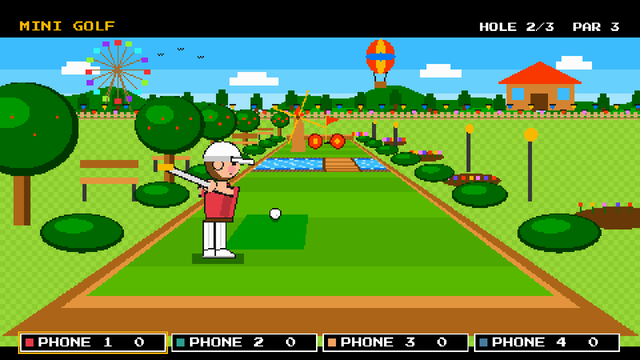
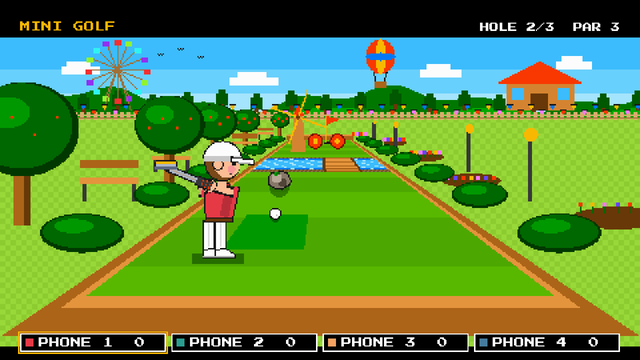
Mini Golf: a better putter and more obstacles (rocks, sliding barriers)
Claude-Session: https://claude.ai/code/session_01ESdJXy1GyvRtzxqDz7HJmE

Changed region(s): [[0.2188, 0.4278, 0.3438, 0.55], [0.4062, 0.4583, 0.4688, 0.55]]

diff --git a/docs/games/mini_golf.md b/docs/games/mini_golf.md
@@ -39,7 +39,7 @@ Rules and turns
 | REQ-MG-7 | **The winner** has the fewest strokes over all holes of the match. A tie is shown as a tie. The end is `open_results()` (REQ-GM-72) with the strokes as the score (fewer is better), the medal (REQ-MG-14) and Try again, New game, Back to menu. | Done | smoke_golf |
 | REQ-MG-8 | **Pick up after 6 strokes.** When a player has played 6 strokes on a hole and the ball is not in, the ball is picked up with a soft message and the hole counts as 6 for that player. The player waits for the others. | Done | run_tests |
 | REQ-MG-9 | **Water.** A hole can have a lake that goes from one wall to the other, with a bridge over it. A ball that touches the water (not the bridge) makes a small splash, stops, and goes back to the place of the last putt (the putt counts as a stroke). Nothing more is taken away. | Done | run_tests |
-| REQ-MG-10 | **Edges.** A strong putt with a bad direction can leave the green. The wall brings the ball back (a bounce); the ball never leaves the course. The windmill block and the bumpers are obstacles that bounce the ball. Nothing is taken away for a bounce. | Done | run_tests |
+| REQ-MG-10 | **Edges.** A strong putt with a bad direction can leave the green. The wall brings the ball back (a bounce); the ball never leaves the course. The windmill block, the bumpers, the rocks (a boulder takes more speed than a bumper) and the sliding barriers (red and gold boxes that slide across the course, always leaving a gap) are obstacles that bounce the ball. A barrier that slides into the ball pushes it aside. Nothing is taken away for a bounce. | Done | run_tests |
 | REQ-MG-11 | A player who leaves: the golfer and the ball go away, the turn goes to the next player, and the strokes stay in the result. When nobody is left the "No players connected" menu opens (REQ-GM-22). A lost phone pauses the game (REQ-GM-30). A phone that comes back keeps its slot (REQ-GM-30a). | Done | smoke_golf |
 
 Holes and settings
@@ -50,7 +50,7 @@ Holes and settings
 | REQ-MG-13 | **Difficulty changes the help for aim and power only** (REQ-GM-96; all players have the same difficulty). Easy: a long aim line, a power hint at the swing, and a weak swing still reaches a nearby hole. Medium: a short aim line, no power hint. Hard: no aim line, only a small marker on the ground. The courses are the same on every difficulty. | Device | run_tests, Device |
 | REQ-MG-14 | **Medals** (REQ-GM-73), for 1 player: by the total strokes against the par of the played holes. First guess: gold at par or better, silver at most 1 over par per hole, bronze at most 2 over par per hole (the exact tiers are in Parameters). For 2 to 4 players the medal is for the winner. | Done | run_tests |
 | REQ-MG-15 | **No personal best in this version.** The key table of the profile (`profile_keys.gd`) has a limited size, and the saved number would be strokes (fewer is better). `best_key()` returns "". A key `mini_golf|<difficulty>|<holes>` can be added later. | Done | smoke_golf (`best_key()`) |
-| REQ-MG-16 | The golfer is a friendly kid with a white cap, white trousers and shoes and a shirt in the slot color, seen from behind and a little from the side. A full swing is animated: address, backswing (when the direction locks), downswing, hit, follow-through and finish, mixed smoothly (`golf_look.gd` `aim_pose()` and `swing_pose()`). The animation is played by the TV when the swing is found; it is not a live copy of the arm (the detector reports a swing a few samples after the hit). The ball starts at once, and the phone buzzes (30 ms, a strong putt 60 ms). | Device | smoke_golf, Device |
+| REQ-MG-16 | The golfer is a friendly kid with a white cap, white trousers and shoes and a shirt in the slot color, seen from behind and a little from the side. A full swing is animated: address, backswing (when the direction locks), downswing, hit, follow-through and finish, mixed smoothly (`golf_look.gd` `aim_pose()` and `swing_pose()`). The putter has a dark grip, a steel shaft and a steel head with a gold top line. The animation is played by the TV when the swing is found; it is not a live copy of the arm (the detector reports a swing a few samples after the hit). The ball starts at once, and the phone buzzes (30 ms, a strong putt 60 ms). | Device | smoke_golf, Device |
 
 ## Parameters
 

diff --git a/CLAUDE.md b/CLAUDE.md
@@ -65,7 +65,7 @@ Tests the user has to run now (status on 2026-10-10 after run R1; the list is in
 
 | Test | What the user does | Why |
 |------|--------------------|-----|
-| 26 | **New game.** Mini Golf with 1 to 4 phones: the aim by turning the phone and its lock at the back swing, the power of soft, medium and hard putts and the delay, the turns and the balls that wait, the 5 holes (walls, bumpers, windmill, lake and bridge), the words (birdie, par, bogey, hole in one, picked up), Easy, Medium and Hard help, the medal, a player that leaves, a child of 5 to 8 years, the pixel look from the sofa | Mini Golf was added on 2026-10-17 (`docs/games/mini_golf.md`). Needed before it is merged. It uses the swing detector of tests 23 and 24, so run test 24 first. All values (swing thresholds, putt speeds, friction, the hole designs, medal tiers), the pictures, the song and the Hebrew texts are first guesses |
+| 26 | **New game.** Mini Golf with 1 to 4 phones: the aim by turning the phone and its lock at the back swing, the power of soft, medium and hard putts and the delay, the turns and the balls that wait, the 5 holes (walls, bumpers, rocks, sliding barriers, windmill, lake and bridge), the words (birdie, par, bogey, hole in one, picked up), Easy, Medium and Hard help, the medal, a player that leaves, a child of 5 to 8 years, the pixel look from the sofa | Mini Golf was added on 2026-10-17 (`docs/games/mini_golf.md`). Needed before it is merged. It uses the swing detector of tests 23 and 24, so run test 24 first. All values (swing thresholds, putt speeds, friction, the hole designs, medal tiers), the pictures, the song and the Hebrew texts are first guesses |
 | 25 | **New game.** Tennis with 1 to 4 phones: toss with A and a serve swing from top to bottom, the hit window (the ring on the court, green and yellow, early and late swings), power and left or right aim, the characters that run by themselves, the ball and its shadow from the sofa, Real and Quick scoring, 2 against 1 and 2 against 2, the machine rally alone (medals), a player that leaves, a child of 5 to 8 years | Tennis was added on 2026-10-17 (`docs/games/tennis.md`). Needed before it is merged. It uses the swing detector of tests 23 and 24, so run test 24 first. All values (the hit window, the green zone, the ball speeds, the medal tiers), the pictures, the song and the Hebrew texts are first guesses |
 | 24 | **New (swing detector for Tennis).** Debug overlay with 1 to 2 phones: no swing when still or walking, strokes (back, then forward) found with a power that grows from soft to hard, a serve from top to bottom says DOWN and a stroke from left to right does not, one swing for swing and back, a tap or shake is not a swing, the delay in ms, an iPhone | The Pin Pals swing detector was moved to `scripts/input/` and used for Tennis on 2026-10-17 (`docs/games/tennis.md`, REQ-TN-5 to 9). Needed before Tennis is built on it. Every threshold is a first guess and is tuned from this test |
 | 23 | **New game.** Pin Pals (bowling) with 1 to 4 phones: the aim with a turn (range, drift, left and right), the swing that throws (different grips, a soft swing, a hard swing, accidental throws), the standard rules and the score sheet, Rails, the wait with 4 players, a leave and a lock during a turn, the medal tiers, a child of 5 to 8 years, the pixel look from the sofa | Pin Pals was added on 2026-10-16 (`docs/games/bowling.md`). Needed before it is merged. It was only tested with made-up sensor values: the swing thresholds, the aim ranges, the ball speeds, the pictures, the song, the effects and the Hebrew text are first guesses |

diff --git a/docs/MANUAL_TESTS.md b/docs/MANUAL_TESTS.md
@@ -1082,7 +1082,7 @@ New game (2026-10-17). It was only tested with made-up sensor values. Every numb
 4. **Aim.** Turn the phone left and right. Check: the aim mark follows the direction smoothly and not too fast or slow, RECENTER sets straight ahead, and the direction locks when you swing back (the mark turns gold). Write down if the turn range feels right.
 5. **Power.** Putt with a soft, a medium and a hard swing. Check: the ball goes short, medium and far, the golfer swings through at the hit, the phone buzzes, and a small movement is not a putt. Write down the delay between the swing and the ball moving, and if a normal putt goes too far or too short.
 6. **Turn order.** With 2 and 4 phones check: each player putts once, in slot order, and the balls stay where they stopped. A player who is in the hole is skipped.
-7. **Obstacles.** On holes 2 to 5 check: walls bounce the ball, bumpers push it, the windmill block bounces the ball, and the lake (holes 2 and 4) gives a splash unless the ball crosses the bridge and sends the ball back to the last spot (no extra stroke is counted besides the putt). Write down any hole that is too hard or too easy.
+7. **Obstacles.** On holes 2 to 5 check: walls bounce the ball, bumpers push it, the windmill block bounces the ball, rocks (holes 1, 2, 4 and 5) bounce it, the sliding barriers (holes 3 and 5) can be timed and never block the whole course, and the lake (holes 2 and 4) gives a splash unless the ball crosses the bridge and sends the ball back to the last spot (no extra stroke is counted besides the putt). Write down any hole that is too hard or too easy.
 8. **Holes and words.** Play 5 holes (set Holes to 5). Check: BIRDIE, PAR, BOGEY, HOLE IN ONE and "Picked up after 6 strokes" show at the right strokes, the card at the end of each hole has the strokes of the hole and the total, A skips it, and the bar counts the strokes.
 9. **Difficulty.** Play a hole on Easy, Medium and Hard. Check: Easy has a long aim line and the hint about the swing and a weak swing still moves the ball far, Medium a short line, Hard only the marker. The courses are the same.
 10. **Result.** Finish a match with 2 phones, then alone. Check: the result menu has the winner (or TIE) and, alone, a medal (gold at par or better, silver at most 1 over par per hole, bronze at most 2 over). Try again, New game and Back to menu work. Write down how long a 3 hole match took.
@@ -1101,7 +1101,7 @@ New game (2026-10-17). It was only tested with made-up sensor values. Every numb
 | 4 | Note: the turn range of the aim, RECENTER | Not run | | | |
 | 5 | Video of soft, medium and hard putts; note: the delay in ms | Not run | | | |
 | 6 | Note: the order with 2 and 4 phones | Not run | | | |
-| 7 | Video of the windmill, a bumper, the lake and the bridge; note on the holes | Not run | | | |
+| 7 | Video of the windmill, a bumper, a rock, a sliding barrier, the lake and the bridge; note on the holes | Not run | | | |
 | 8 | Photo of the card of a hole and of each banner | Not run | | | |
 | 9 | Photo of the aim on each difficulty | Not run | | | |
 | 10 | Photo of the result menu and the medal; note: the time of a match | Not run | | | |
